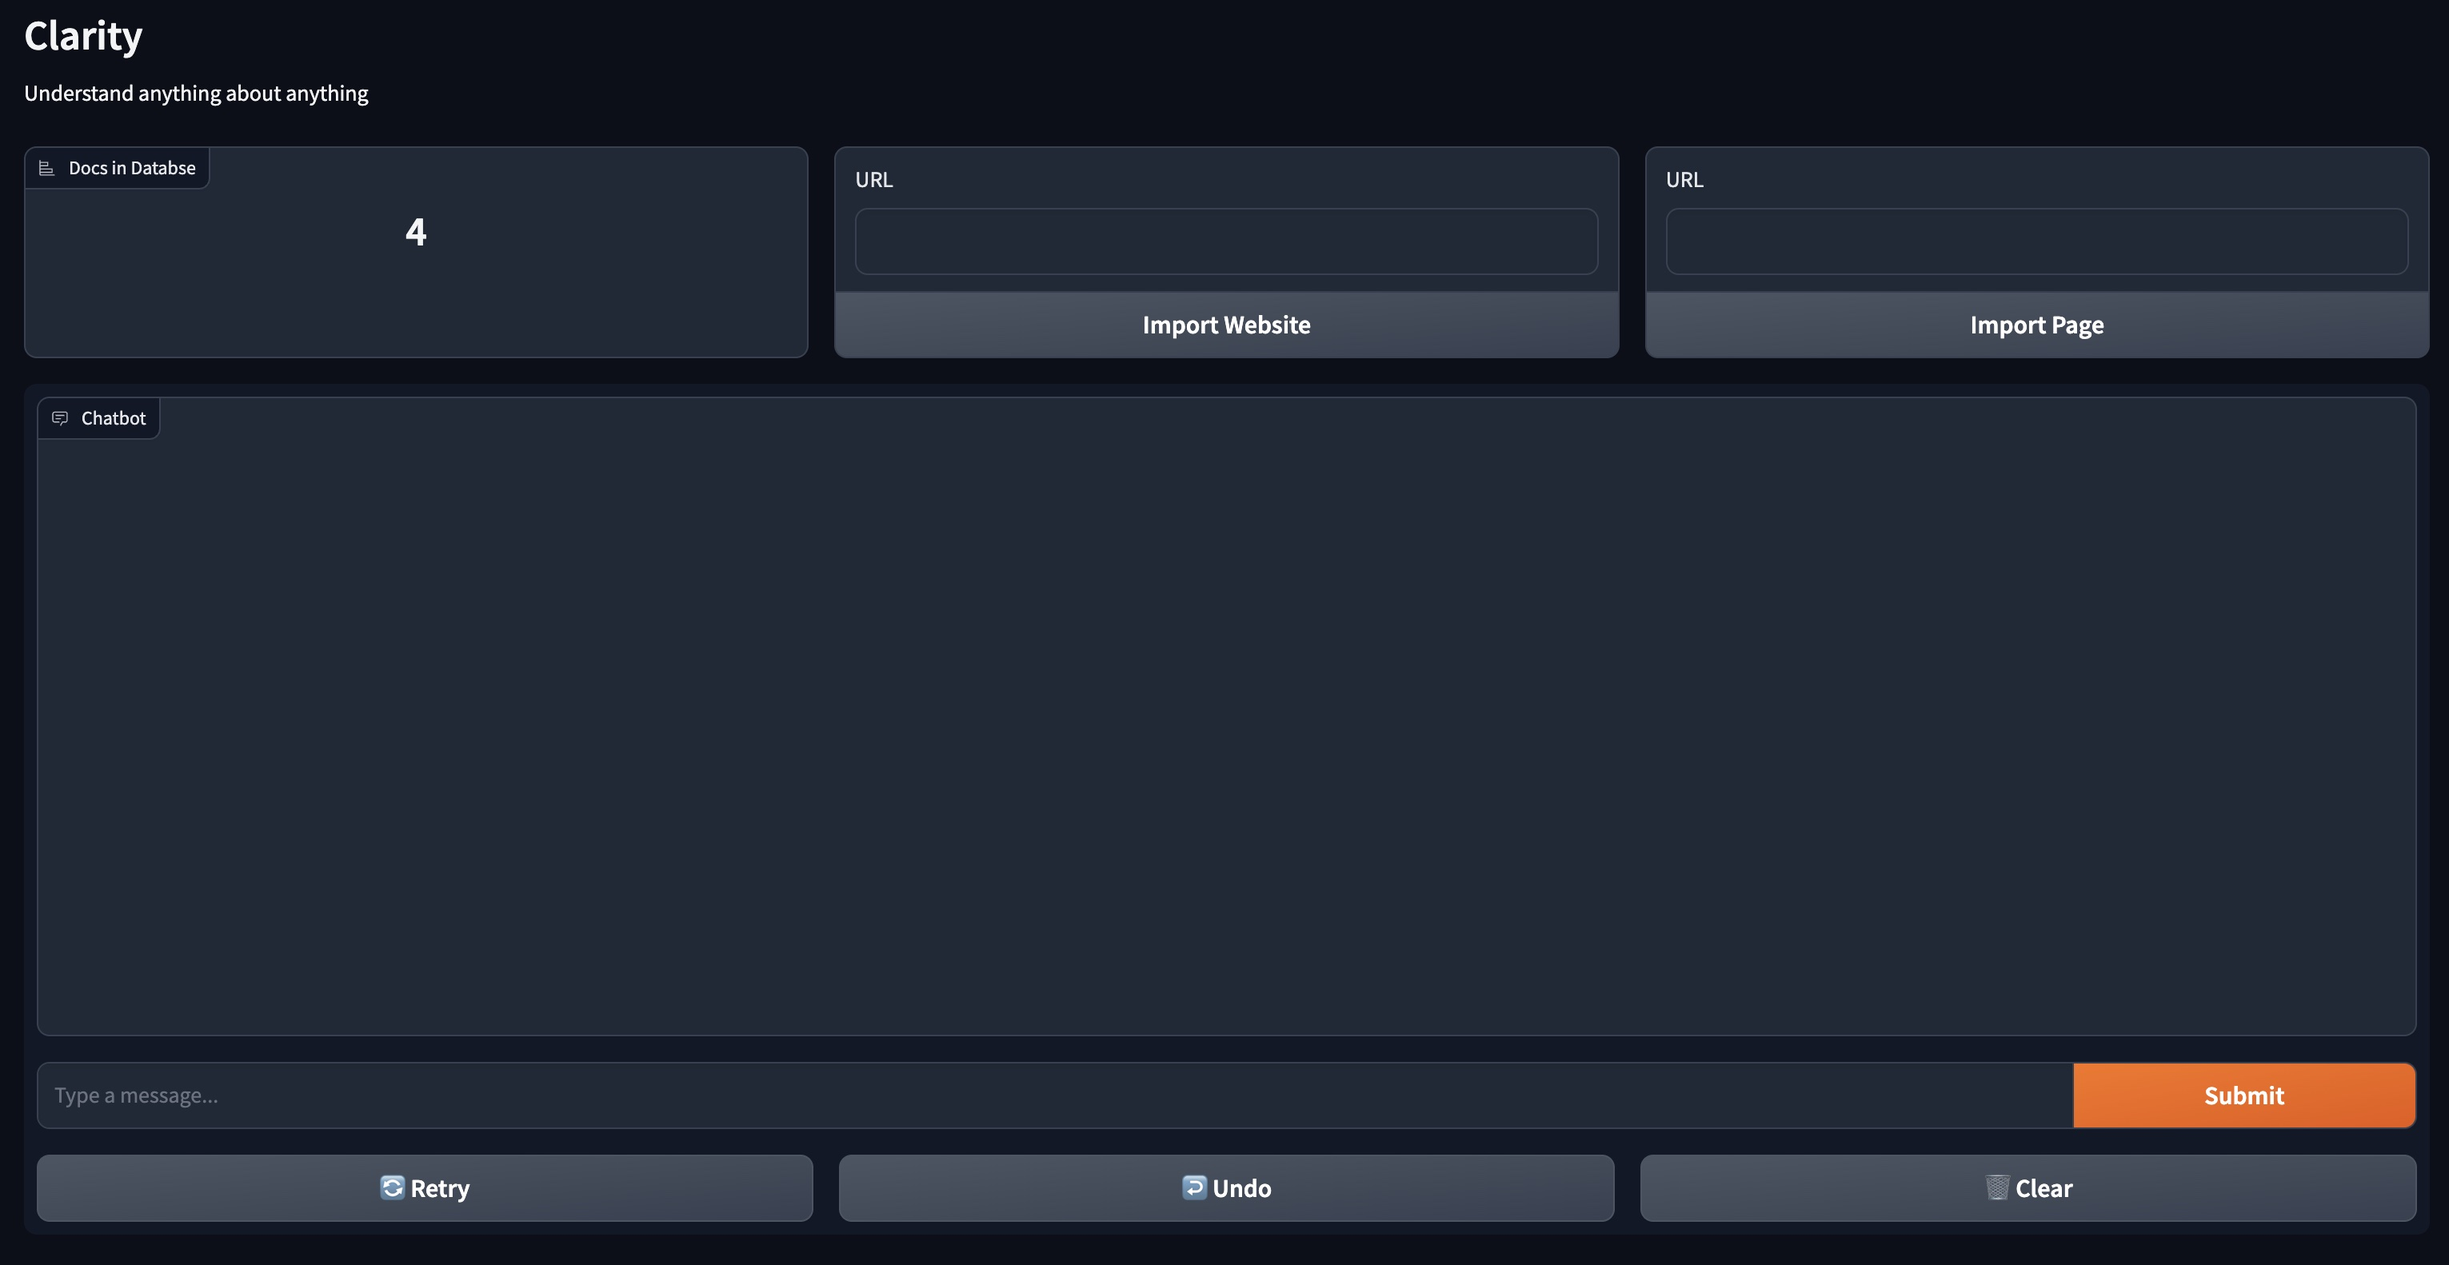
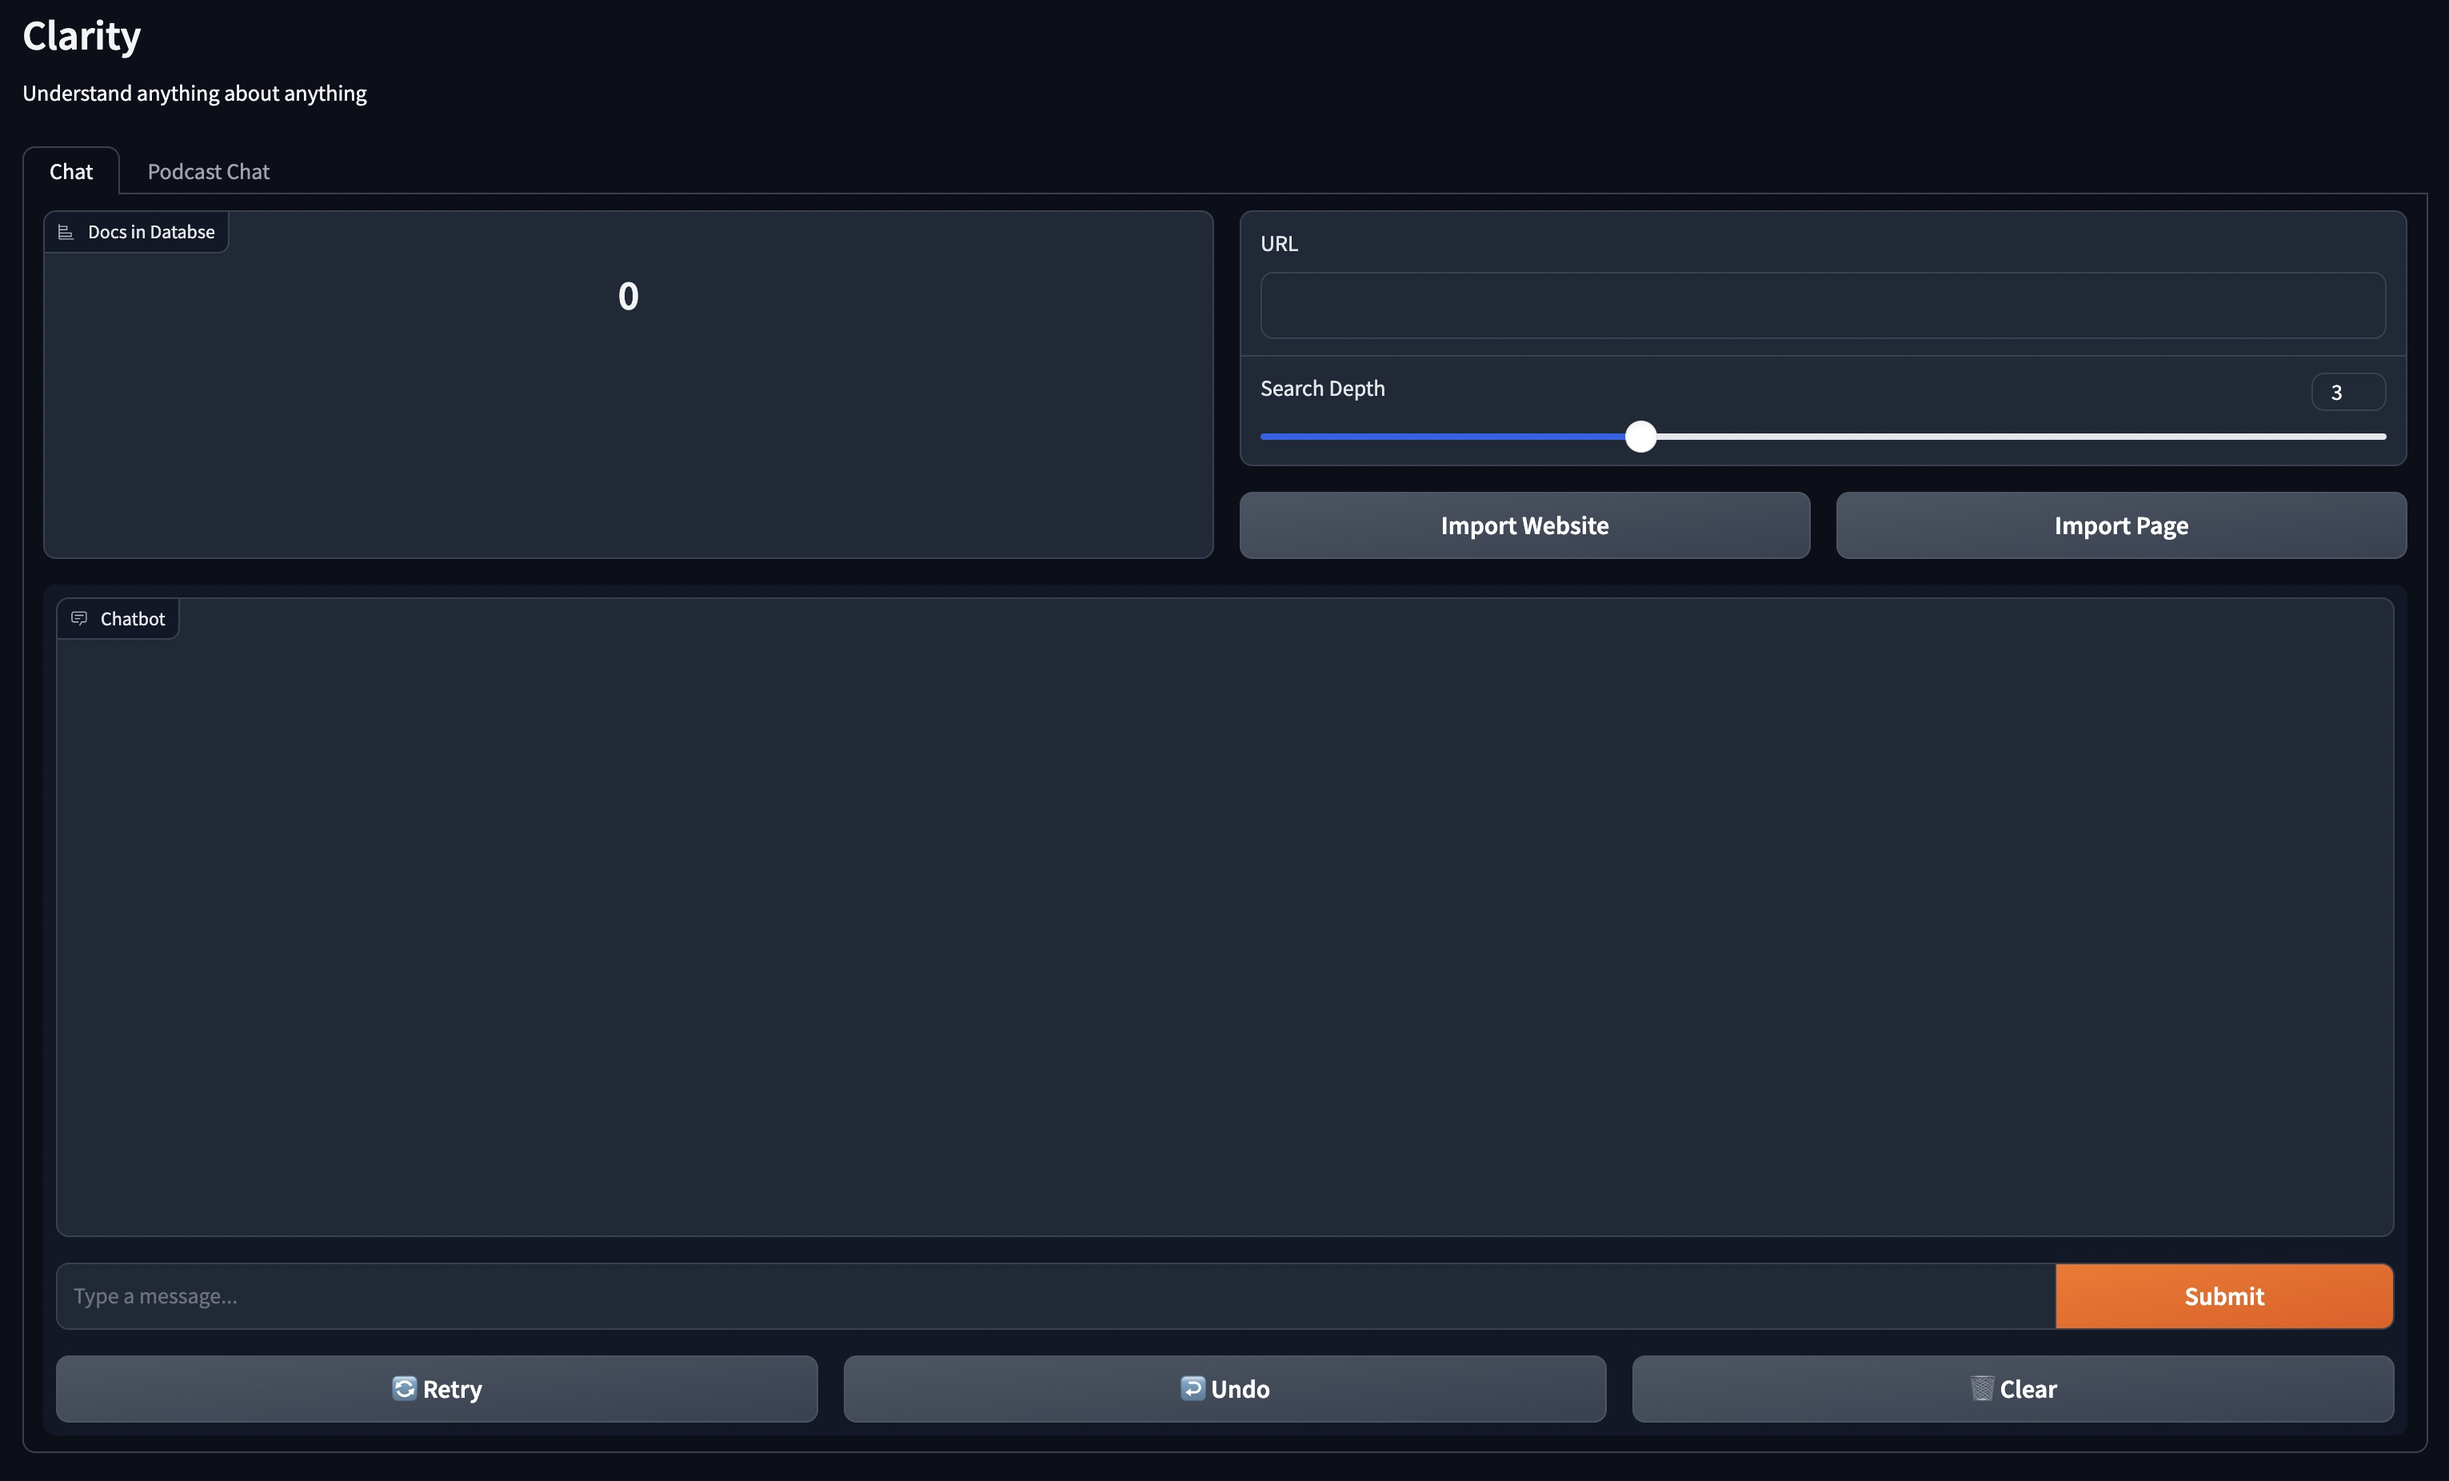
Improve Clarity

Changed region(s): [[0.0, 0.0, 0.9928, 0.9912], [0.3413, 0.8982, 0.3723, 0.9292], [0.2482, 0.1858, 0.2792, 0.2168]]

diff --git a/index.py b/index.py
@@ -1,34 +1,37 @@
 import gradio as gr
 import validators
 from dotenv import load_dotenv
-from langchain.chains import LLMChain
+from langchain.cache import InMemoryCache
+from langchain.chains import (LLMChain, MapReduceDocumentsChain,
+                              ReduceDocumentsChain, StuffDocumentsChain)
 from langchain.chat_models import ChatOpenAI
 from langchain.document_loaders import AsyncChromiumLoader, YoutubeLoader
 from langchain.document_transformers import Html2TextTransformer
 from langchain.embeddings import OpenAIEmbeddings
+from langchain.globals import set_llm_cache
 from langchain.memory import ConversationBufferMemory
 from langchain.prompts import PromptTemplate
+from langchain.text_splitter import RecursiveCharacterTextSplitter
 from langchain.vectorstores import Chroma
 
 from getlinks import depth_lookup
 
 load_dotenv()
+set_llm_cache(InMemoryCache())
 
 llm = ChatOpenAI(temperature=1.0, model='gpt-3.5-turbo-0613')
 embeddings = OpenAIEmbeddings()
 html2text = Html2TextTransformer(ignore_images=True, ignore_links=True)
+text_splitter = RecursiveCharacterTextSplitter(chunk_size = 3072, chunk_overlap = 100)
 
 global vectorstore
 vectorstore = Chroma(persist_directory="./chroma_db", embedding_function=embeddings)
 
-global docs_count
-global transcript
-
-def import_website(url):
+def import_website(url, depth=3):
 
     if validators.url(url):
 
-        links = depth_lookup(url, 3)
+        links = depth_lookup(url, depth)
 
         loader = AsyncChromiumLoader(links)
         docs = loader.load()
@@ -72,7 +75,7 @@ def predict(message, history):
         prompt=prompt, 
         llm=llm, 
         verbose=True, 
-        memory=ConversationBufferMemory(k=2, memory_key="chat_history", input_key="chat_history")
+        memory=ConversationBufferMemory(k=3, memory_key="chat_history", input_key="chat_history")
     )
     output = llm_chain.run(human_input=message, context=context[:2])
 
@@ -83,12 +86,41 @@ def transcribe_video(url):
     loader = YoutubeLoader.from_youtube_url(
         url, add_video_info=True
     )
-    docs = loader.load_and_split();
-    vectorstore.add_documents(docs)
-    return docs, len(vectorstore.get()['documents']) if vectorstore.get()['documents'] else 0
+    docs = loader.load()
 
-def summarize(trans):
-    return "hello"
+    vectorstore.add_documents(docs)
+    return docs[0].page_content, len(vectorstore.get()['documents']) if vectorstore.get()['documents'] else 0
+
+def summarize(url, map_template, reduce_template):
+
+    loader = YoutubeLoader.from_youtube_url(
+        url, add_video_info=True
+    )
+    docs = loader.load()
+    splits = text_splitter.split_documents(docs)
+
+    map_prompt = PromptTemplate.from_template(map_template)
+    map_chain = LLMChain(llm=llm, prompt=map_prompt)
+
+    reduce_prompt = PromptTemplate.from_template(reduce_template)
+    reduce_chain = LLMChain(llm=llm, prompt=reduce_prompt)
+
+    combine_documents_chain = StuffDocumentsChain(llm_chain=reduce_chain, document_variable_name="doc_summaries")
+
+    reduce_documents_chain = ReduceDocumentsChain(
+        combine_documents_chain=combine_documents_chain,
+        collapse_documents_chain=combine_documents_chain,
+        token_max=4000,
+    )
+
+    map_reduce_chain = MapReduceDocumentsChain(
+        llm_chain=map_chain,
+        reduce_documents_chain=reduce_documents_chain,
+        document_variable_name="docs",
+        return_intermediate_steps=False,
+    )
+
+    return map_reduce_chain.run(splits)
 
 with gr.Blocks(title="Clarity") as demo:
 
@@ -104,15 +136,17 @@ with gr.Blocks(title="Clarity") as demo:
 
             with gr.Row():
 
-                docs_count = gr.Label(value=len(vectorstore.get()['documents']), label="Docs in Databse", scale=1)
+                docs_count = gr.Label(value=len(vectorstore.get()['documents']), label="Docs in Databse")
 
-                with gr.Group():
+                with gr.Column():
 
-                    input_url = gr.Textbox(label="URL", lines=1,scale=4)
+                    input_url = gr.Textbox(label="URL", lines=1)
+                    
+                    depth = gr.Slider(2, 5, value=3, step=1, label="Search Depth")
                     
                     with gr.Row():
                         btn = gr.Button(value="Import Website")
-                        btn.click(import_website, inputs=[input_url], outputs=[docs_count])        
+                        btn.click(import_website, inputs=[input_url, depth], outputs=[docs_count])        
                         
                         btn2 = gr.Button(value="Import Page")
                         btn2.click(import_page, inputs=[input_url], outputs=[docs_count])        
@@ -122,30 +156,37 @@ with gr.Blocks(title="Clarity") as demo:
 
         with gr.TabItem(label="Podcast Chat") as t1:
 
-            gr.Markdown(
-                """
-                ### Chat and Summarize Podcasts
-                """
-            )
+            gr.Markdown(""" ### Chat and Summarize Podcasts """)
 
             with gr.Column():
 
                 with gr.Row():
-                    transcript = gr.TextArea(label="Transcript", lines=10) 
+                    transcript = gr.TextArea(label="Transcript", lines=20) 
 
                     with gr.Group():
-                        summary = gr.TextArea(label="Summary", lines=10)
-                        btn = gr.Button(value="Summarize")
-                        btn.click(summarize, inputs=[transcript], outputs=[summary])
+                        with gr.Row():
+                            map_template = gr.TextArea(label="Map Prompt Template", value="""The following is a set of documents
+                                {docs}
+                                Based on this list of docs, please identify the main themes 
+                                Helpful Answer:""", lines=3)
+                            reduce_template = gr.TextArea(label="Reduce Prompt Template", value="""The following is set of summaries:
+                                {doc_summaries}
+                                Take these and distill it into a final, consolidated summary of the main themes. 
+                                Helpful Answer:""", lines=3)
 
-                
+                        summary = gr.TextArea(label="Summary ~(10s/10m)", lines=15)
+
                 with gr.Group():
                     video_url = gr.Textbox(label="Youtube URL", lines=1, value="https://www.youtube.com/watch?v=UZtQcnt12SM")
                     
-                    btn = gr.Button(value="Import Video")
-                    btn.click(transcribe_video, inputs=[video_url], outputs=[transcript, docs_count])
+                    with gr.Row():
 
-        
+                        btn = gr.Button(value="Import Video")
+                        btn.click(transcribe_video, inputs=[video_url], outputs=[transcript, docs_count])
+                        
+                        btn2 = gr.Button(value="Summarize")
+                        btn2.click(summarize, inputs=[video_url, map_template, reduce_template], outputs=[summary])
+                
 
 if __name__ == "__main__":
     demo.queue().launch(server_port=8000)
